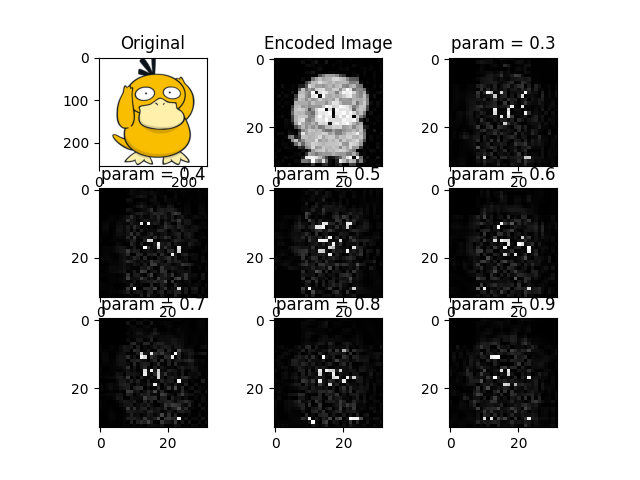
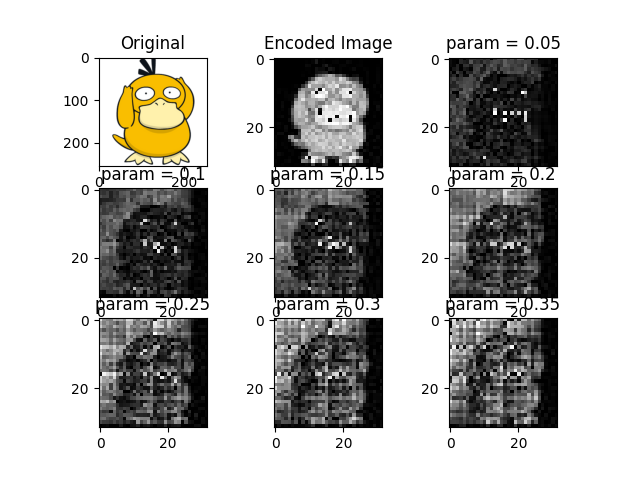
new upload

diff --git a/imageUtil.py b/imageUtil.py
@@ -110,7 +110,7 @@ def plotEvalCurve(imgDictList):
     plt.savefig('result/eval.png')
     plt.show()
 
-
+# auto label
 def autolabel(rects, ax):
     """Attach a text label above each bar in *rects*, displaying its height."""
     for rect in rects:
@@ -120,6 +120,25 @@ def autolabel(rects, ax):
                     xytext=(0, 3),  # 3 points vertical offset
                     textcoords="offset points",
                     ha='center', va='bottom')
+
+# overall evaluation -- average SSIM, MSE, Weighted Diverse
+def overallPerformanceEval(imgDictList):
+    params = []
+    mses = []
+    ssims = []
+    for i in range(2, len(imgDictList)):
+        params.append(imgDictList[i]['param'])
+        mses.append(imgDictList[i]['mse'])
+        ssims.append(imgDictList[i]['ssim'])
+    n = len(params)
+    sumList = []
+    for i in range(len(params)):
+        sumList.append(math.sqrt((ssims[i] * (10 ** (3)) - mses[i] * (10 ** (-2))) ** 2) * params[i])
+
+    avgMSE = sum(mses) / n
+    avgSSIM = sum(ssims) / n
+    weightedDiv = sum(sumList) / n
+    return avgMSE, avgSSIM, weightedDiv
 
 # plot comparison distribution
 def plotCompareDistribution(keyset, dist1, dist2, labels):

diff --git a/noise_model.py b/noise_model.py
@@ -56,12 +56,12 @@ def constructAmplitudeDampingNoiseModel(param_meas, qb_nums, rand):
             noise_model.add_quantum_error(qerror_meas, 'measure', [sample])
         return noise_model
     else:
-        noise_model.add_all_qubit_quantum_error(qerror_meas, "reset")
-        # noise_model.add_all_qubit_quantum_error(qerror_meas, "measure")
-        noise_model.add_all_qubit_quantum_error(qerror_meas, ['u1', 'u2', 'u3'])
-        error_gate1 = pauli_error([("X", param_meas), ("I", 1 - param_meas)])
-        error_gate2 = error_gate1.tensor(error_gate1)
-        noise_model.add_all_qubit_quantum_error(error_gate2, ["cx"])
+        # noise_model.add_all_qubit_quantum_error(qerror_meas, "reset")
+        noise_model.add_all_qubit_quantum_error(qerror_meas, "measure")
+        # noise_model.add_all_qubit_quantum_error(qerror_meas, ['u1', 'u2', 'u3'])
+        # error_gate1 = pauli_error([("X", param_meas), ("I", 1 - param_meas)])
+        # error_gate2 = error_gate1.tensor(error_gate1)
+        # noise_model.add_all_qubit_quantum_error(error_gate2, ["cx"])
         return noise_model
 
 # Phase Damping Model on phase gate

diff --git a/experiments.py b/experiments.py
@@ -272,6 +272,11 @@ def experiments(experSettings):
                 'param': param
             })
 
+    # overall diversity
+    avgMSE, avgSSIM, weightedDiv = overallPerformanceEval(imgDictList)
+    print('The average MSE of this model is {:.3f}.'.format(avgMSE))
+    print('The average SSIM of this model is {:.3f}.'.format(avgSSIM))
+    print('The Weighted Diversity of this model is {:.3f}.'.format(weightedDiv))
 
     return imgDictList,imgDiffList
 
@@ -279,8 +284,8 @@ if __name__ == '__main__':
     experiment_settings_AMP = {
         'encoding': 'Amplitude Encoding',
         'noiseModel': 'Amplitude Damping',
-        # 'modelParams': [0.05, 0.1, 0.15, 0.2, 0.25, 0.3, 0.35],
-        'modelParams': [0.3, 0.4, 0.5, 0.6, 0.7, 0.8, 0.9],
+        'modelParams': [0.05, 0.1, 0.15, 0.2, 0.25, 0.3, 0.35],
+        # 'modelParams': [0.3, 0.4, 0.5, 0.6, 0.7, 0.8, 0.9],
         'shots': 20000,
         'resize': 32,
         'originalImgPath': IMG_PATH,
